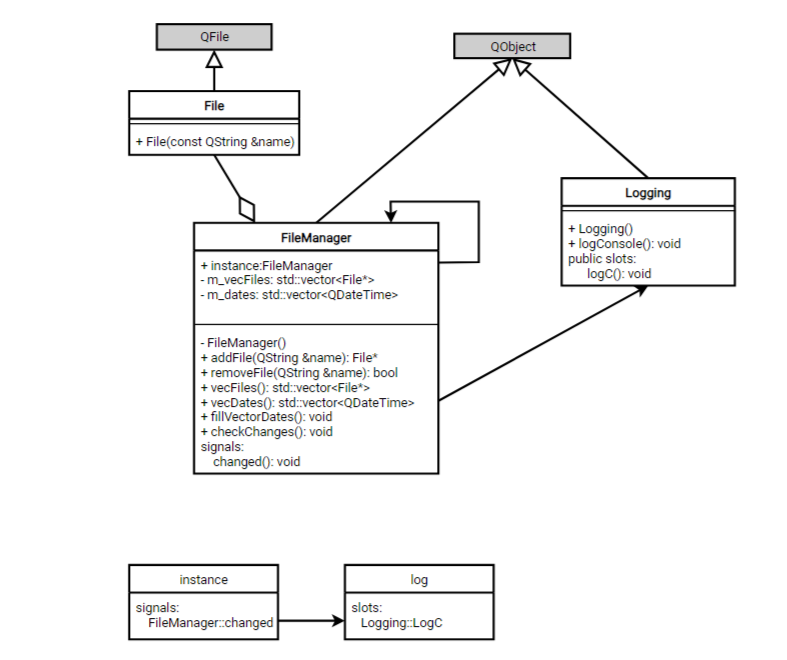
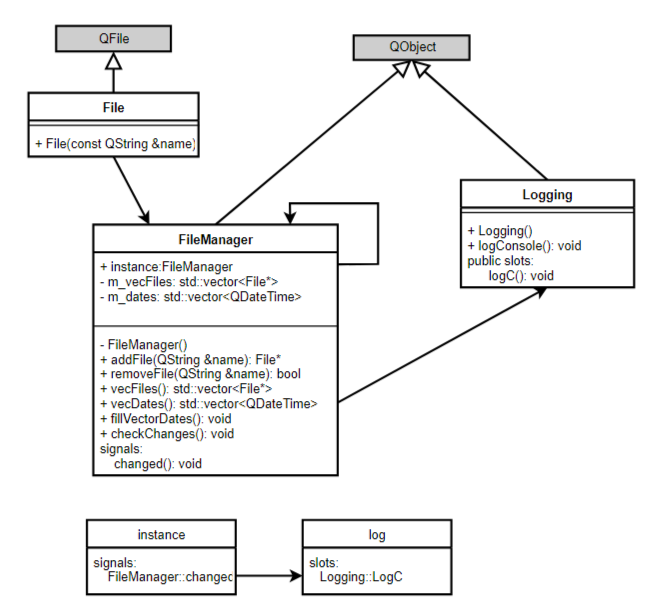
Файлы для тестирования + UML диаграмма
Исправление диаграммы

diff --git a/FileViewer/logging.cpp b/FileViewer/logging.cpp
@@ -8,13 +8,14 @@ void Logging::logConsole()
 {
     system("cls");
     FileManager& instance = FileManager::Instance();
-    int size = instance.vecFiles().size();
-    qDebug() << "vector size: " << size;
+    //int size = instance.vecFiles().size();
+    //qDebug() << "vector size: " << size;
     qDebug() << " Name       " << "Path                " << "         Size      " << "     Existence";
     for(auto file : instance.vecFiles()){
         QFileInfo fileInfo(file->fileName());
         QString fileName = fileInfo.fileName();
         QString filePath = fileInfo.filePath();
+
         if(file->open(QIODevice::ReadOnly)){
             qDebug() << fileName << "  " << filePath << "  " << file->size() << " bytes" << "    file existence";
             file->close();
@@ -28,22 +29,6 @@ void Logging::logConsole()
 
 void Logging::logC()
 {
-    system("cls");
-    FileManager& instance = FileManager::Instance();
-    qDebug() << " Name       " << "Path                " << "         Size      " << "     Existence";
-    for(auto file : instance.vecFiles()){
-        QFileInfo fileInfo(file->fileName());
-        QString fileName = fileInfo.fileName();
-        QString filePath = fileInfo.filePath();
-
-        if(file->open(QIODevice::ReadOnly)){
-            qDebug() << fileName << "  " << filePath << "  " << file->size() << " bytes" << "    file existence";
-            file->close();
-        }
-        else{
-            qDebug() << fileName << "  " << filePath << "  " << file->size() << " bytes" << "    File does not exist";
-            //qDebug() << "File: " << fileName << " does not exist";
-        }
-    }
+    logConsole();
 }
 

diff --git a/FileViewer/main.cpp b/FileViewer/main.cpp
@@ -12,12 +12,11 @@ int main(int argc, char *argv[])
 
     QObject::connect(&instance, FileManager::changed, &log, Logging::logC);
 
-    QStringList files = { "C:/QTproject/Files/f1.txt",
-        "C:\\QTproject\\Files\\f2.txt",
-        "C:\\QTproject\\allProject\\main.cpp",
-        "C:\\QTproject\\FileM\\main.cpp",
-        "D:\\PotPlayer\\d3dx9_43.dll",
-        "C:\\dsadsadas\\asdsa"                        //Не существует
+    QStringList files = { "C:/QTproject/3 course/SDT_FileViewer/Files/f1.txt",
+        "C:/QTproject/3 course/SDT_FileViewer/Files/f2.txt",
+        "C:/QTproject/3 course/SDT_FileViewer/FileViewer/main.cpp",
+        "C:/QTproject/3 course/SDT_FileViewer/UML.png",
+        "C:/dsadsadas/asdsa"                                          //Не существует
     };
 
     for(auto file : files){
@@ -28,7 +27,7 @@ int main(int argc, char *argv[])
 
     while(1){
         instance.checkChanges();
-        std::this_thread::sleep_for( std::chrono::milliseconds( 2000 ) );
+        std::this_thread::sleep_for( std::chrono::milliseconds( 1000 ) );
     }
 
 

diff --git a/FileViewer/filemanager.cpp b/FileViewer/filemanager.cpp
@@ -25,7 +25,7 @@ bool FileManager::removeFile(QString &name)
     if(!m_vecFiles.empty()){
         for(auto file : m_vecFiles){
             if(cname == file->fileName()){
-                emit del(cname);
+
                 m_vecFiles.erase(std::remove(m_vecFiles.begin(), m_vecFiles.end(), file), m_vecFiles.end());
                 return true;
             }

diff --git a/FileViewer/filemanager.h b/FileViewer/filemanager.h
@@ -28,7 +28,6 @@ public: // private (конструктор деструктор), отсутсв
 
 signals:
     void changed();
-    void del(QString name);
 
 private:
     FileManager();
